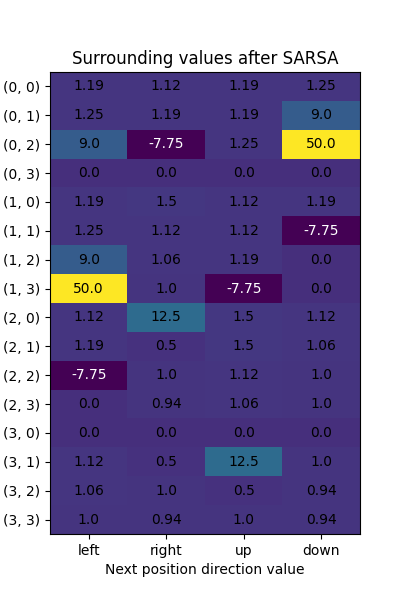
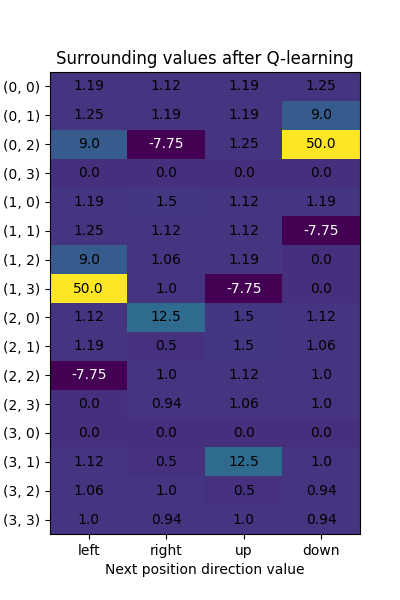
change visualization plot name

Changed region(s): [[0.15, 0.09, 0.9, 0.12]]

diff --git a/AS2.2/Agent.py b/AS2.2/Agent.py
@@ -138,7 +138,7 @@ class Agent:
                 state = next_position
             self.position = (3, 2)
 
-        self.plot_sarsa_values("_sarsa")
+        self.plot_sarsa_values("SARSA")
 
     def q_learning(self, discount: float, learning_rate: float, epsilon: float, epochs: int):
         """
@@ -170,7 +170,7 @@ class Agent:
 
             self.position = (3, 2)
 
-        self.plot_sarsa_values("_q-learning")
+        self.plot_sarsa_values("Q-learning")
 
     def print_iteration(self, iteration):
         """
@@ -204,7 +204,7 @@ class Agent:
         ax.set_yticklabels([str(key) for key in self.maze.surrounding_values_per_coords.keys()])
         ax.set_xlabel('Next position direction value')
         ax.set_ylabel('Positions')
-        ax.set_title('Surrounding values after SARSA')
+        ax.set_title(f'Surrounding values after {plt_name}')
 
         # Show actual values in each block
         for i in range(len(self.maze.surrounding_values_per_coords.keys())):
@@ -214,7 +214,7 @@ class Agent:
                             ha='center', va='center',
                             color='w' if values[i, j, 0] < 0 else 'black')  # White text for negative values
 
-        plt.savefig(f'../images/AS{plt_name}_visualization.png')
+        plt.savefig(f'../images/AS_{plt_name}_visualization.png')
         plt.show()
 
     def plot_values(self, tot_fig_rows, tot_fig_columns, plt_name):

diff --git a/AS2.2/main.py b/AS2.2/main.py
@@ -19,7 +19,7 @@ agent.value_iteration()
 
 # agent.temporal_difference(0.5, 1, 10)
 # agent.temporal_difference(0.5, 0.5, 10)
-# agent.sarsa(0.25, 1, 0.1, 2000)
+agent.sarsa(0.25, 1, 0.1, 2000)
 # agent.sarsa(0.25, 0.9, 0.1, 20000)
-agent.q_learning(0.25, 1, 0.1, 50000)
+# agent.q_learning(0.25, 1, 0.1, 50000)
 # agent.q_learning(0.5, 0.9, 0.1, 50000)
